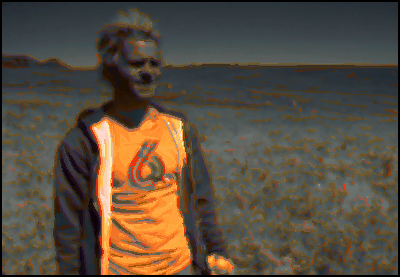
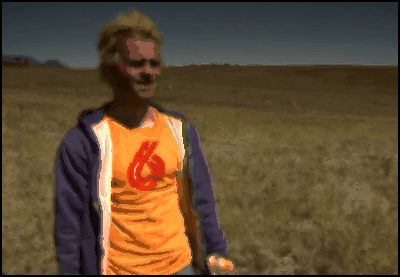
Patchmatch distance en Lab

diff --git a/patchMatching/src/PatchMatch.cpp b/patchMatching/src/PatchMatch.cpp
@@ -1,65 +1,53 @@
 #include <opencv2/core/core.hpp>
 #include <opencv2/highgui/highgui.hpp>
+#include <opencv2/imgproc/imgproc.hpp>
 #include <cassert>
+#include <vector>
 #include "PatchMatch.h"
 #include "ImageCorrespondance.h"
 
+
 namespace PatchMatch{
-	double getYFromRGB(cv::Mat image, int x, int y){
-		int R = image.at<cv::Vec3b>(y, x)[2];
-		int G = image.at<cv::Vec3b>(y, x)[1];
-		int B = image.at<cv::Vec3b>(y, x)[0];
-
-		return MIN(255,0.299*R+0.587*G+0.11*B);
-	}
-	//=======================================================================================================
-	cv::Mat imageYFromRGB(cv::Mat image){
-		
-		cv::Mat out = cv::Mat::zeros(image.rows, image.cols,CV_64F);
-
-		for(int x=0; x < out.cols; x++) {
-			for(int y=0; y < out.rows; y++) {
-				out.at<double>(y,x) = getYFromRGB(image, x, y);
-			}
-		}
-
-		return out;
-	}
 	//=======================================================================================================
 	void attributePixels(cv::Mat out, int outx, int outy, cv::Mat source, int sx, int sy){
 		out.at<cv::Vec3b>(outy, outx) = source.at<cv::Vec3b>(sy,sx);
 	}
 	//=======================================================================================================
-	double distance(cv::Mat source,cv::Mat target, int sx, int sy, int tx, int ty, int patchSize, double prevDist) {
+	double distanceLab(std::vector<cv::Mat> source, std::vector<cv::Mat> target, int sx, int sy, int tx, int ty, int patchSize, double prevDist) {
 		double dist = 0.0;
 
 		//int halfSize = (int)(((double)patchSize)/2 + 0.5)-1;
 		int halfSize = patchSize/2;
 
-		if ((sx+halfSize > source.cols-1) || (sx-halfSize < 0) || 
-			(sy+halfSize > source.rows-1) || (sy-halfSize < 0) ||
-			(tx+halfSize > source.cols-1) || (tx-halfSize < 0) || 
-			(ty+halfSize > source.rows-1) || (ty-halfSize < 0))
+		if ((sx+halfSize > source[0].cols-1) || (sx-halfSize < 0) || 
+			(sy+halfSize > source[0].rows-1) || (sy-halfSize < 0) ||
+			(tx+halfSize > source[0].cols-1) || (tx-halfSize < 0) || 
+			(ty+halfSize > source[0].rows-1) || (ty-halfSize < 0))
 		{
 			dist = HUGE_VAL;
 		}
 		else
 		{
+			for(int i=-halfSize; i<=halfSize; i++){
+				for(int j=-halfSize; j<=halfSize; j++){
+					int xSource = i+sx;
+					int ySource = j+sy;
+					double YSource = source[0].at<double>(ySource, xSource);
+					double aSource = source[1].at<double>(ySource, xSource);
+					double bSource = source[2].at<double>(ySource, xSource);
 
-		 for(int i=-halfSize; i<=halfSize; i++){
-			for(int j=-halfSize; j<=halfSize; j++){
-				int xSource = i+sx;
-				int ySource = j+sy;
-				double Ysource = source.at<double>(ySource, xSource);
-				
-				int xTarget = i+tx;
-				int yTarget = j+ty;
-				double grayTarget = target.at<double>(yTarget, xTarget);
+					int xTarget = i+tx;
+					int yTarget = j+ty;
+					double YTarget = target[0].at<double>(yTarget, xTarget);
+					double aTarget = target[1].at<double>(yTarget, xTarget);
+					double bTarget = target[2].at<double>(yTarget, xTarget);
 
-				double diff = Ysource - grayTarget;
-				dist += diff*diff;
+					double diffY = YSource - YTarget;
+					double diffa = aSource - aTarget;
+					double diffb = bSource - bTarget;
+					dist += diffY*diffY + diffa*diffa + diffb*diffb;
+				}
 			}
-		}
 		}
 		if(dist <= 1e-10)
 			return 0.0;
@@ -74,9 +62,18 @@ namespace PatchMatch{
 		//patchSize = patchSize/2+0.5;
 
 		cv::Mat out = cv::Mat::zeros(target.rows, target.cols,CV_8UC3);
-    
-		cv::Mat sourceY = imageYFromRGB(source);
-		cv::Mat targetY = imageYFromRGB(target);
+
+		// Conversion en Lab, 64F, 3 canaux séparés
+		cv::Mat source2, sourceLab;
+		cv::Mat target2, targetLab;
+		std::vector<cv::Mat> sourceChannels(3), targetChannels(3);
+		cv::cvtColor(source, source2, CV_BGR2Lab);
+		cv::cvtColor(target, target2, CV_BGR2Lab);
+		source2.convertTo(sourceLab, CV_64F);
+		target2.convertTo(targetLab, CV_64F);
+		cv::split(sourceLab, sourceChannels);
+		cv::split(targetLab, targetChannels);
+
 
 		ImageCorrespondance corres(target.cols, target.rows);
 
@@ -89,7 +86,7 @@ namespace PatchMatch{
 				Vec * vector = &corres.vectors[x][y];
 				vector->x = dx;
 				vector->y = dy;
-				vector->dist = distance(sourceY, targetY, dx, dy, x, y, patchSize, HUGE_VAL);
+				vector->dist = distanceLab(sourceChannels, targetChannels, dx, dy, x, y, patchSize, HUGE_VAL);
 				
 				if (vector->dist == HUGE_VAL) {vector->x = 0; vector->y = 0; dx=dy=0;}
 				attributePixels(out, x, y, source, dx, dy);
@@ -112,7 +109,7 @@ namespace PatchMatch{
 
 						Vec * left = &corres.vectors[x-1][y];
 						
-						double distLeft = distance(sourceY, targetY, left->x, left->y, x, y, patchSize, outPtr->dist);
+						double distLeft = distanceLab(sourceChannels, targetChannels, left->x, left->y, x, y, patchSize, outPtr->dist);
 
 						if (distLeft < outPtr->dist) {
 							outPtr->x = left->x;
@@ -125,7 +122,7 @@ namespace PatchMatch{
 						}
 				
 						Vec * up = &corres.vectors[x][y-1];
-						double distUp = distance(sourceY, targetY, up->x, up->y, x, y, patchSize, outPtr->dist);
+						double distUp = distanceLab(sourceChannels, targetChannels, up->x, up->y, x, y, patchSize, outPtr->dist);
 
 						if (distUp < outPtr->dist) {
 							outPtr->x = up->x;
@@ -154,7 +151,7 @@ namespace PatchMatch{
 
 						Vec * right = &corres.vectors[x+1][y];
 						
-						double distRight = distance(sourceY, targetY, right->x, right->y, x, y, patchSize, outPtr->dist);
+						double distRight = distanceLab(sourceChannels, targetChannels, right->x, right->y, x, y, patchSize, outPtr->dist);
 
 						if (distRight < outPtr->dist) {
 							outPtr->x = right->x;
@@ -167,7 +164,7 @@ namespace PatchMatch{
 						}
 
 						Vec * down = &corres.vectors[x][y+1];
-						double distDown = distance(sourceY, targetY, down->x, down->y, x, y, patchSize, outPtr->dist);
+						double distDown = distanceLab(sourceChannels, targetChannels, down->x, down->y, x, y, patchSize, outPtr->dist);
 
 						if (distDown < outPtr->dist) {
 							outPtr->x = down->x;
@@ -213,7 +210,7 @@ namespace PatchMatch{
 						int randY = rand() % (maxY - minY) + minY;
 
 						Vec * random = &corres.vectors[randX][randY];
-						double dist = distance(sourceY, targetY, random->x, random->y, x, y, patchSize, outPtr->dist);
+						double dist = distanceLab(sourceChannels, targetChannels, random->x, random->y, x, y, patchSize, outPtr->dist);
 						if (dist < outPtr->dist) {
 							outPtr->x = random->x;
 							outPtr->y = random->y;

diff --git a/patchMatching/src/PatchMatch.h b/patchMatching/src/PatchMatch.h
@@ -8,13 +8,10 @@
 #include "ImageCorrespondance.h"
 
 namespace PatchMatch{
-	double getYFromRGB(cv::Mat image, int x, int y);
-	//=======================================================================================================
-	cv::Mat imageYFromRGB(cv::Mat image);
 	//=======================================================================================================
 	void attributePixels(cv::Mat out, int outx, int outy, cv::Mat source, int sx, int sy);
 	//=======================================================================================================
-	double distance(cv::Mat source,cv::Mat target, int sx, int sy, int tx, int ty, int patchSize, double prevDist);
+	double distanceLab(std::vector<cv::Mat> source, std::vector<cv::Mat> target, int sx, int sy, int tx, int ty, int patchSize, double prevDist);
 	//=======================================================================================================
 	cv::Mat apply(cv::Mat source, cv::Mat target, int iterations, int patchSize);
 }
